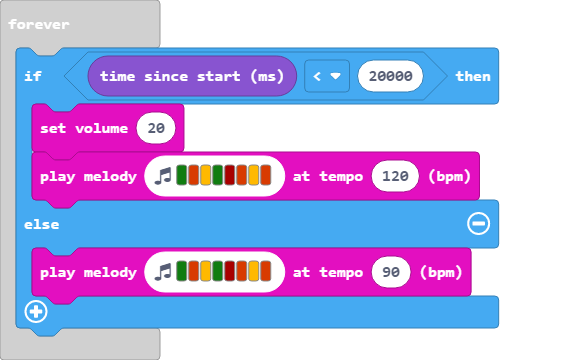
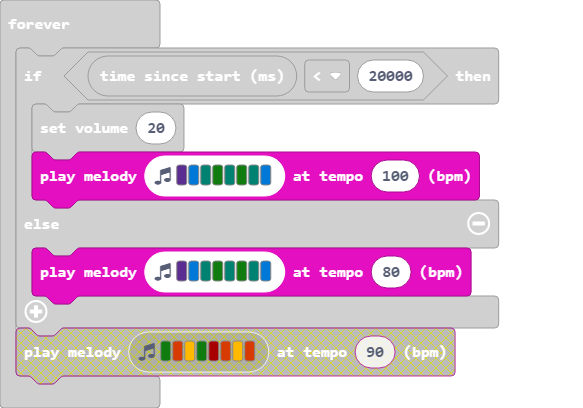
Update pxt.json, main.blocks, main.ts

diff --git a/main.ts b/main.ts
@@ -201,8 +201,8 @@ info.startCountdown(30)
 forever(function () {
     if (game.runtime() < 20000) {
         music.setVolume(20)
-        music.playMelody("G B A G C5 B A B ", 120)
+        music.playMelody("D E F G F G F E ", 100)
     } else {
-        music.playMelody("G B A G C5 B A B ", 90)
+        music.playMelody("D E F G F G F E ", 80)
     }
 })
